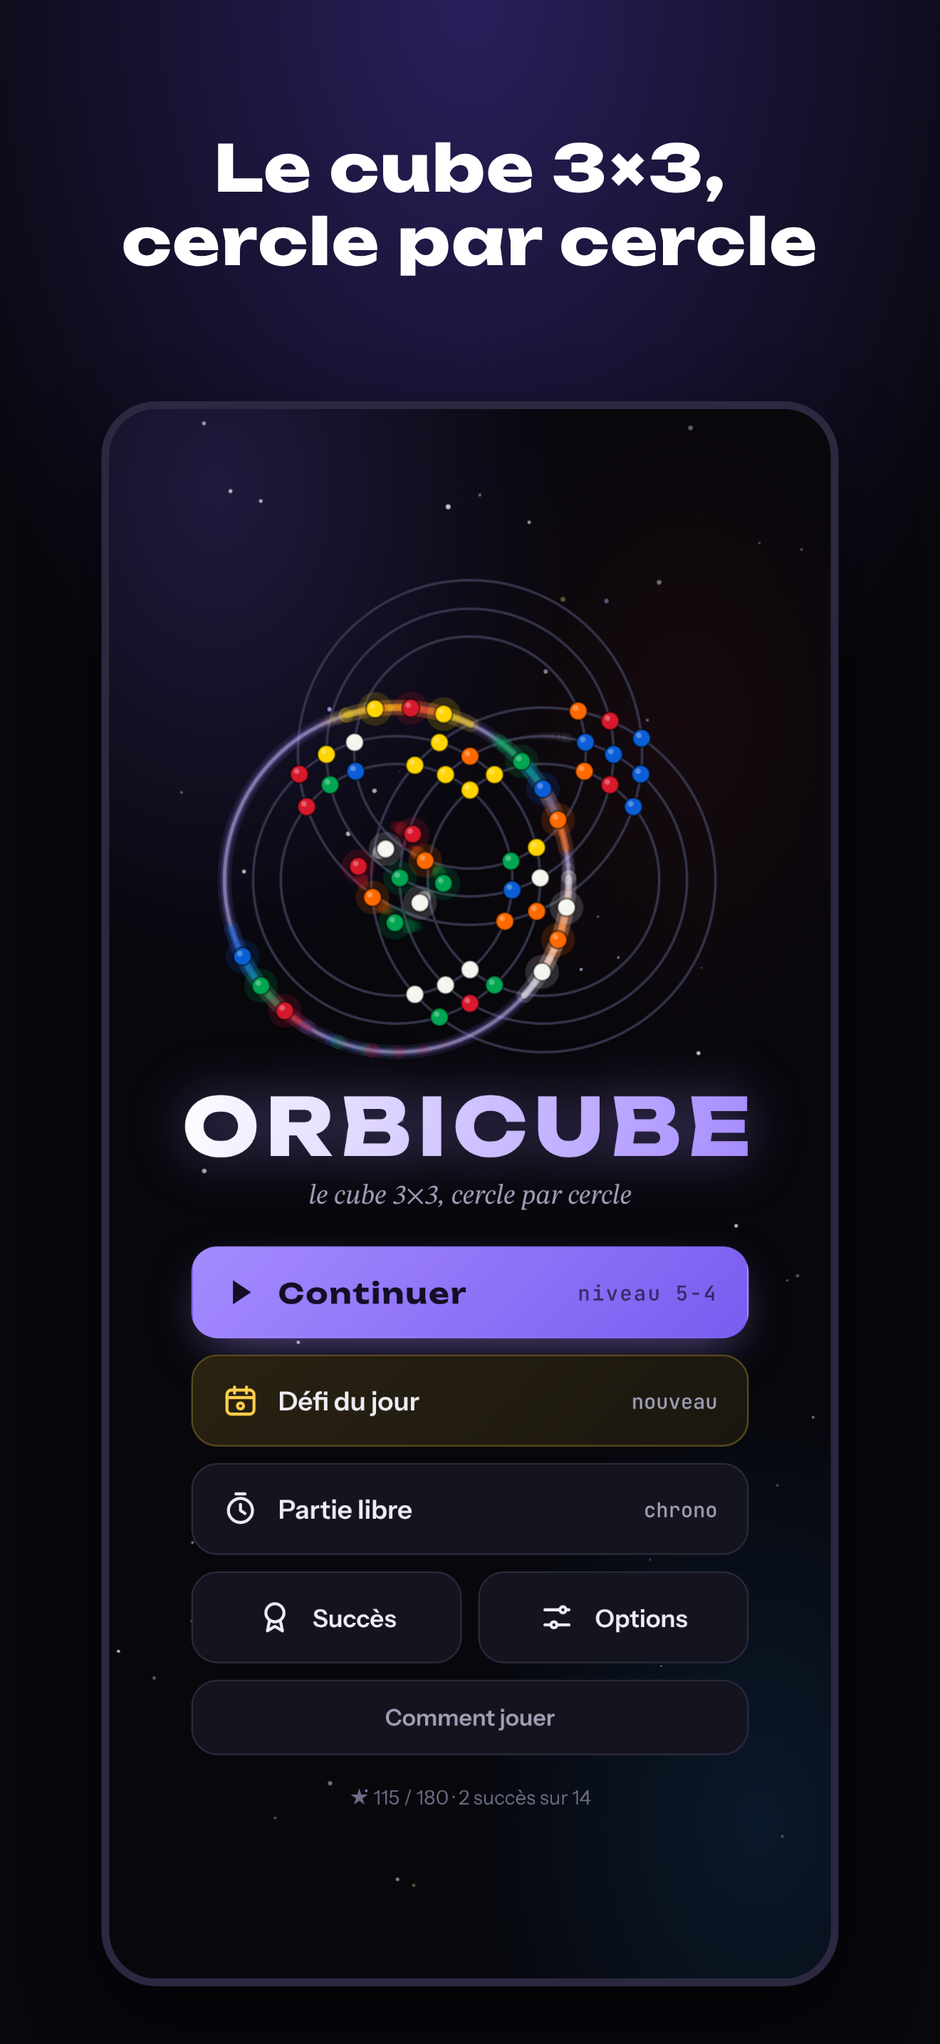
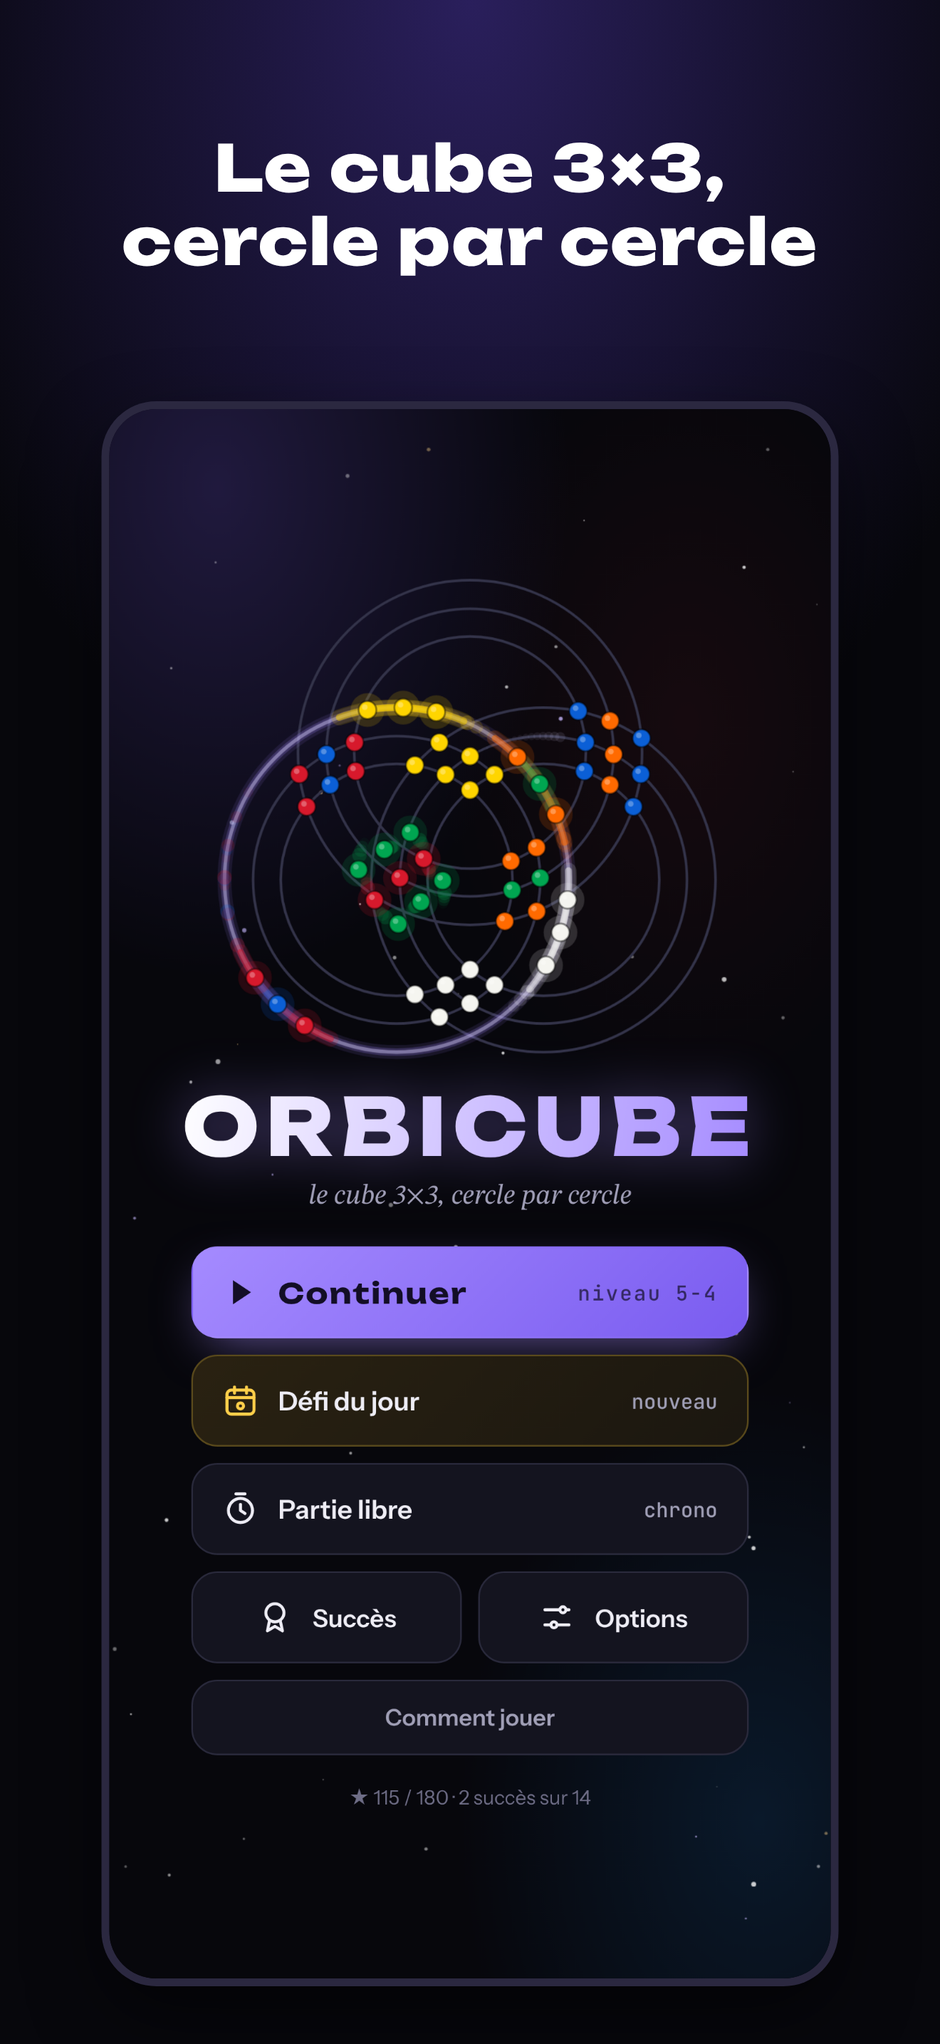
Cube en perspective : pivote au doigt (gauche/droite, haut/bas), plus de libellé U·F·R
Un appui faisait défiler trois vues, toujours dans le même sens. Le cube se fait maintenant
pivoter en le glissant : à gauche ou à droite autour de la verticale, vers le haut ou le bas
pour voir la face du dessous ; au lâcher, il se cale sur la vue la plus proche. Un simple appui
ne fait plus rien. Le libellé U·F·R disparaît, l'aide et le conseil du niveau 2-1 suivent dans
les cinq langues. Relu par la revue de code : bascule bloquée une fois retourné, sens inversé
pendant un glissé en diagonale, souris relâchée hors du cube, redessins groupés par image.

Claude-Session: https://claude.ai/code/session_0149xvqQAFsWoXJkF64USQEK

Changed region(s): [[0.3417, 0.3414, 0.6833, 0.4965], [0.2174, 0.4344, 0.3727, 0.5275]]

diff --git a/orbicube/www/index.html b/orbicube/www/index.html
@@ -162,8 +162,7 @@ a.bouton{text-decoration:none;color:inherit}
 /* le cube en perspective trône au centre, entre les coups et le temps, comme dans la visualisation de
    référence : sa taille (--cube) est la hauteur que le plateau laisse, calculée par redimJeu() */
 .jcube{display:grid;justify-items:center;gap:0;min-width:0;padding-top:14px}
-#mini{width:var(--cube,96px);height:var(--cube,96px);display:block;cursor:pointer;touch-action:manipulation}
-.miniv{font-size:10px;color:var(--sourd);text-align:center;font-family:var(--f-chiffre);pointer-events:none;letter-spacing:.1em}
+#mini{width:var(--cube,96px);height:var(--cube,96px);display:block;cursor:grab;touch-action:none}#mini:active{cursor:grabbing}
 .jinfo .stat{align-self:start;padding-top:6px}.jinfo .jetoiles{margin-top:8px}.jinfo .jetoiles svg{width:18px;height:18px}
 .coupgeant{position:absolute;right:14px;top:4px;font-family:var(--f-math);font-size:44px;color:var(--lilas);line-height:1;pointer-events:none;text-shadow:0 0 24px rgba(165,139,255,.5)}
 .fenetre{animation:pop .45s cubic-bezier(.3,1.4,.5,1)!important}
@@ -345,7 +344,7 @@ a.bouton{text-decoration:none;color:inherit}
     </div>
     <div class="jinfo">
       <div class="stat">Coups<b id="jCoups">0</b><div class="jetoiles" id="jEt" aria-label="Étoiles possibles"></div></div>
-      <div class="jcube"><canvas id="mini" aria-label="Cube en perspective, touchez pour changer de vue"></canvas><div class="miniv" id="miniv">U · F · R</div></div>
+      <div class="jcube"><canvas id="mini" aria-label="Cube en perspective, glissez pour le faire pivoter"></canvas></div>
       <div class="stat d">Temps<b id="jTemps">0:00</b></div>
     </div>
     <div class="plateau" id="zonePlateau">
@@ -386,7 +385,7 @@ a.bouton{text-decoration:none;color:inherit}
           <div class="segment" id="optVitesse"><button type="button" data-v="1.5">Lente</button><button type="button" data-v="1">Normale</button><button type="button" data-v="0.6">Rapide</button></div></div>
         <div class="ligne empile"><div class="lt"><b>Couleurs</b><span>« Contraste » suit une palette lisible par les daltoniens.</span></div>
           <div class="segment" id="optPalette"><button type="button" data-v="classique">Classique</button><button type="button" data-v="contraste">Contraste</button></div></div>
-        <div class="ligne"><div class="lt"><b>Cube en perspective</b><span>La vignette en haut à gauche du plateau.</span></div>
+        <div class="ligne"><div class="lt"><b>Cube en perspective</b><span>Au-dessus du plateau : glissez-le pour le faire pivoter.</span></div>
           <label class="interrupteur"><input type="checkbox" id="optCube" role="switch" aria-label="Cube en perspective"><i></i></label></div>
         <div class="ligne"><div class="lt"><b>Pavé de notation</b><span>Des boutons U, R′… sous le plateau.</span></div>
           <label class="interrupteur"><input type="checkbox" id="optPave" role="switch" aria-label="Pavé de notation"><i></i></label></div>
@@ -440,7 +439,7 @@ a.bouton{text-decoration:none;color:inherit}
         <h3>Les gestes</h3>
         <p data-html="aide-glisser"><b>Glisser</b> le long d’un cercle le tourne dans le sens du doigt. Lâchez tôt et il revient en place.</p>
         <p data-html="aide-toucher"><b>Toucher</b> un cercle le tourne d’un quart de tour, dans le sens horaire (réglable dans les options).</p>
-        <p data-html="aide-vue"><b>Toucher la vignette du cube</b> change la vue : U·F·R, U·B·L, D·F·L.</p>
+        <p data-html="aide-vue"><b>Glisser le cube</b> au-dessus du plateau le fait pivoter : à gauche ou à droite pour en faire le tour, vers le haut ou le bas pour voir la face du dessous.</p>
       </div>
       <div class="aide-carte">
         <h3>Gagner des étoiles</h3>
@@ -627,10 +626,14 @@ var Ticker={actifs:[],tourne:false,reveiller:function(){if(!Ticker.tourne){Ticke
 document.addEventListener("visibilitychange",function(){if(!document.hidden)Ticker.reveiller();});
 
 /* ========== 4. LE CUBE EN PERSPECTIVE ========== */
-var VUES=[{nom:"U · F · R",m:function(v){return v;}},{nom:"U · B · L",m:function(v){return[-v[0],v[1],-v[2]];}},{nom:"D · F · L",m:function(v){return[-v[0],-v[1],v[2]];}}];
 var C30=Math.cos(Math.PI/6);
-function dessinerCube(cc,w,col,anim,vue,pivot){cc.clearRect(0,0,w,w);var k=w/6.6,ox=w/2,oy=w/2,V=VUES[vue].m;
-  function rotV(v){var r=V(v);return pivot?rotAng(r,1,pivot):r;}
+function dessinerCube(cc,w,col,anim,pivot){cc.clearRect(0,0,w,w);var k=w/6.6,ox=w/2,oy=w/2;
+  // orientation libre : pivot.y fait tourner autour de la verticale, pivot.x bascule vers l'avant
+  // (autour de l'axe horizontal de l'écran, (1,0,−1)/√2), ce qui montre la face du dessous
+  var cy=pivot?Math.cos(pivot.y):1,sy=pivot?Math.sin(pivot.y):0,cx_=pivot?Math.cos(pivot.x):1,sx=pivot?Math.sin(pivot.x):0,h=Math.SQRT1_2;
+  function rotV(v){var r=v;if(!pivot)return r;r=[r[0]*cy+r[2]*sy,r[1],-r[0]*sy+r[2]*cy];
+    var d=h*(r[0]-r[2]),cr=[h*(-r[1]),h*(r[2]+r[0]),h*(-r[1])];
+    return[r[0]*cx_+cr[0]*sx+h*d*(1-cx_),r[1]*cx_+cr[1]*sx,r[2]*cx_+cr[2]*sx-h*d*(1-cx_)];}
   function proj(v){v=rotV(v);return[ox+(v[0]-v[2])*C30*k,oy+((v[0]+v[2])*.5-v[1])*k];}
   var mv=anim?anim.mv:null,th=anim?mv.q*anim.t*Math.PI/2:0,cubies=[];
   // Ordre de dessin (algorithme du peintre) : le cube est coupé en trois tranches le long de l'axe du tour.
@@ -786,9 +789,9 @@ function ouvrirMonde(w){var M=MONDES[w];document.getElementById("nivTitre").text
 /* ========== 11. LA PARTIE ========== */
 var JeuP=new Plateau(document.getElementById("plateau"),{eclats:true});Ticker.actifs.push(JeuP);
 JeuP.onFace=function(n){if(!J||!J.pret||J.fini)return;bip(1047,.28,"sine",.07);bip(1568,.32,"sine",.05,.07);vibrer(12);};
-var mini=document.getElementById("mini"),miniC=mini.getContext("2d"),VUE=0,PIVOT=0,J=null;
+var mini=document.getElementById("mini"),miniC=mini.getContext("2d"),PIVOT={y:0,x:0},J=null;
 function dessinerMini(){if(!PROG.options.cube)return;var w=mini.clientWidth||84,px=Math.round(w*DPR);if(mini.width!==px){mini.width=px;mini.height=px;miniC.setTransform(DPR,0,0,DPR,0,0);}
-  dessinerCube(miniC,w,JeuP.col,JeuP.anim,VUE,PIVOT);}
+  dessinerCube(miniC,w,JeuP.col,JeuP.anim,PIVOT);}
 JeuP.apres=function(){dessinerMini();if(J&&J.t0&&!J.fini&&!J.enPause)document.getElementById("jTemps").textContent=fmt(performance.now()-J.t0);};
 function fmt(ms){var s=Math.floor(ms/1000);return Math.floor(s/60)+":"+String(s%60).padStart(2,"0");}
 // Le plateau prend la largeur, moins une marge pour que les cercles ne frôlent pas les bords (le client, le 11/10/2026) ; le cube, au centre de la ligne des coups et du temps, prend la
@@ -881,9 +884,9 @@ var TUTOS={"1-1":["geste","Glissez le long du cercle qui brille, dans le sens de
   "1-2":["toucher","Touchez un cercle pour le tourner d’un quart de tour dans le sens horaire. Glisser permet de choisir le sens."],
   "1-3":["pastille","Chaque pastille est au croisement de deux cercles. Un tour déplace douze pastilles, et les neuf de la face pivotent sur place."],
   "1-5":["indice","Bloqué ? L’ampoule en haut à droite montre le tour suivant, mais limite le niveau à deux étoiles."],
-  "2-1":["vue","La vignette du cube en haut à gauche se touche : elle change de vue pour montrer les faces cachées."],
+  "2-1":["vue","Le cube au-dessus du plateau se fait pivoter au doigt : glissez-le pour voir les faces cachées."],
   "3-1":["tranche","Les cercles du milieu sont les tranches M, E et S. Ils n’ont pas de face à eux : seules douze pastilles bougent."]};
-function tutoriel(){if(!J||J.def.mode!=="campagne")return;var t=TUTOS[J.def.id];if(!t||PROG.tips[t[0]])return;
+function tutoriel(){if(!J||J.def.mode!=="campagne")return;var t=TUTOS[J.def.id];if(!t||PROG.tips[t[0]]||(t[0]==="vue"&&!PROG.options.cube))return;
   var b=document.getElementById("bulle");document.getElementById("bulleTxt").textContent=t[1];b.dataset.tip=t[0];b.hidden=false;if(t[0]==="geste")indice(true);}
 function cacherBulle(sansNoter){var b=document.getElementById("bulle");if(!b.hidden&&b.dataset.tip&&!sansNoter){PROG.tips[b.dataset.tip]=1;sauver();}b.hidden=true;}
 document.getElementById("bulleOk").addEventListener("click",function(){sonClic();cacherBulle();});
@@ -928,9 +931,24 @@ cvJ.addEventListener("pointerup",lacher);cvJ.addEventListener("pointercancel",la
 cvJ.addEventListener("pointerleave",function(){if(!G&&JeuP.survol){JeuP.survol=null;JeuP.dessiner();}});
 cvJ.addEventListener("contextmenu",function(e){e.preventDefault();if(!J||!J.pret)return;var p=pt(e),c=JeuP.anneauxSous(p[0],p[1]);
   if(c.length)jouerCoup({a:c[0].a,L:c[0].L,q:qPourSens(c[0].a,PROG.options.horaire?1:-1)});});
-mini.addEventListener("click",function(){VUE=(VUE+1)%3;document.getElementById("miniv").textContent=VUES[VUE].nom;sonClic();
-  var t0=performance.now();(function tour(now){var k=Math.min(1,(now-t0)/320);PIVOT=(1-ease(k))*Math.PI*.5;dessinerMini();if(k<1)requestAnimationFrame(tour);else{PIVOT=0;dessinerMini();}})(t0);
-  if(!PROG.tips.vue){PROG.tips.vue=1;sauver();}var b=document.getElementById("bulle");if(!b.hidden&&b.dataset.tip==="vue")cacherBulle();});
+// Le cube pivote au doigt : glisser à gauche ou à droite le fait tourner autour de la verticale, vers le
+// haut ou le bas le bascule pour montrer la face du dessous. Au lâcher, il se cale sur la vue la plus
+// proche (un quart de tour, ou retourné). Un simple appui ne fait rien : il ne tournait que dans un sens.
+(function(){var g=null,anim=0,attente=false;
+  function redessiner(){if(attente)return;attente=true;requestAnimationFrame(function(){attente=false;dessinerMini();});}
+  function norm(a){a%=2*Math.PI;return a<0?a+2*Math.PI:a;}
+  function caler(){var y0=PIVOT.y,x0=PIVOT.x,y1=Math.round(y0/(Math.PI/2))*Math.PI/2,x1=Math.round(x0/Math.PI)*Math.PI,t0=performance.now(),n=++anim;
+    (function pas(now){if(n!==anim)return;var k=Math.min(1,(now-t0)/260),e=ease(k);PIVOT={y:y0+(y1-y0)*e,x:x0+(x1-x0)*e};dessinerMini();
+      if(k<1)requestAnimationFrame(pas);else PIVOT={y:norm(y1),x:norm(x1)};})(t0);}
+  mini.addEventListener("pointerdown",function(e){if(e.button)return;anim++;g={x:e.clientX,y:e.clientY,bouge:false};try{mini.setPointerCapture(e.pointerId);}catch(_){}});
+  mini.addEventListener("pointermove",function(e){if(!g)return;if(e.pointerType==="mouse"&&!e.buttons){lacher();return;}
+    var dx=e.clientX-g.x,dy=e.clientY-g.y;if(!g.bouge){if(Math.hypot(dx,dy)<4)return;g.bouge=true;vibrer(6);}
+    // pas à pas : le sens horizontal suit la bascule du moment (retourné, la droite devient la gauche)
+    var k=(Math.PI/2)/(0.9*Math.max(60,mini.clientWidth)),sens=Math.cos(PIVOT.x)<0?-1:1;
+    PIVOT={y:PIVOT.y+sens*dx*k,x:PIVOT.x-dy*k};g.x=e.clientX;g.y=e.clientY;redessiner();});
+  function lacher(){if(!g)return;var b=g.bouge;g=null;if(!b)return;caler();
+    if(!PROG.tips.vue){PROG.tips.vue=1;sauver();}var bu=document.getElementById("bulle");if(!bu.hidden&&bu.dataset.tip==="vue")cacherBulle();}
+  mini.addEventListener("pointerup",lacher);mini.addEventListener("pointercancel",lacher);})();
 
 document.getElementById("btnPause").addEventListener("click",function(){sonClic();pause();});
 document.getElementById("btnIndice").addEventListener("click",function(){sonClic();if(!J||!J.pret||J.fini)return;
@@ -1010,7 +1028,7 @@ function appliquerOptions(){var o=PROG.options;COUL=PALETTES[o.palette]||PALETTE
   document.getElementById("optPave").checked=o.pave;document.getElementById("optSens").checked=o.horaire;
   document.querySelectorAll("#optVitesse button").forEach(function(b){b.classList.toggle("on",+b.dataset.v===o.vitesse);});
   document.querySelectorAll("#optPalette button").forEach(function(b){b.classList.toggle("on",b.dataset.v===o.palette);});
-  mini.hidden=!o.cube;document.getElementById("miniv").hidden=!o.cube;document.getElementById("pave").hidden=!o.pave;
+  mini.hidden=!o.cube;document.getElementById("pave").hidden=!o.pave;
   document.getElementById("btnPaveT").classList.toggle("on",o.pave);
   if(ECRAN==="jeu")requestAnimationFrame(redimJeu);Logo.dessiner();JeuP.dessiner();dessinerMini();}
 function opt(k,v){PROG.options[k]=v;PROG.options.maj=Date.now();sauver();appliquerOptions();}

diff --git a/orbicube/www/langues.js b/orbicube/www/langues.js
@@ -62,7 +62,7 @@
     ["Par", "Par", "Par", "Par", "Par"],
     ["Étoiles possibles", "Stars still possible", "Nog mogelijke sterren", "Noch mögliche Sterne", "Estrellas posibles"],
     ["Plateau de cercles", "Board of circles", "Bord met cirkels", "Kreisbrett", "Tablero de círculos"],
-    ["Cube en perspective, touchez pour changer de vue", "3D cube, tap to change the view", "3D-kubus, tik om het zicht te wisselen", "3D-Würfel, tippen für eine andere Ansicht", "Cubo en 3D, toca para cambiar la vista"],
+    ["Cube en perspective, glissez pour le faire pivoter", "3D cube, swipe to turn it around", "3D-kubus, veeg om hem te draaien", "3D-Würfel, wischen zum Drehen", "Cubo en 3D, desliza para girarlo"],
     ["MÉLANGE…", "SCRAMBLING…", "HUSSELEN…", "MISCHEN…", "MEZCLANDO…"],
     ["Glissez le long d’un cercle", "Slide along a circle", "Veeg langs een cirkel", "Wische an einem Kreis entlang", "Desliza por un círculo"],
     ["Compris", "Got it", "Begrepen", "Verstanden", "Entendido"],
@@ -75,7 +75,7 @@
     ["Touchez un cercle pour le tourner d’un quart de tour dans le sens horaire. Glisser permet de choisir le sens.", "Tap a circle to turn it a quarter turn clockwise. Sliding lets you choose the direction.", "Tik op een cirkel om hem een kwartslag met de klok mee te draaien. Door te vegen kies je de richting.", "Tippe auf einen Kreis, um ihn eine Vierteldrehung im Uhrzeigersinn zu drehen. Durch Wischen wählst du die Richtung.", "Toca un círculo para girarlo un cuarto de vuelta en sentido horario. Deslizando eliges el sentido."],
     ["Chaque pastille est au croisement de deux cercles. Un tour déplace douze pastilles, et les neuf de la face pivotent sur place.", "Each dot sits where two circles cross. A turn moves twelve dots, and the nine on the face spin in place.", "Elk bolletje ligt op het kruispunt van twee cirkels. Een draai verplaatst twaalf bolletjes, en de negen van het vlak draaien ter plekke.", "Jeder Punkt liegt dort, wo sich zwei Kreise kreuzen. Eine Drehung bewegt zwölf Punkte, und die neun der Seite drehen sich an Ort und Stelle.", "Cada bolita está en el cruce de dos círculos. Un giro mueve doce bolitas, y las nueve de la cara giran en su sitio."],
     ["Bloqué ? L’ampoule en haut à droite montre le tour suivant, mais limite le niveau à deux étoiles.", "Stuck? The bulb at the top right shows the next turn, but limits the level to two stars.", "Vast? Het lampje rechtsboven toont de volgende draai, maar beperkt het level tot twee sterren.", "Festgefahren? Die Glühbirne oben rechts zeigt die nächste Drehung, begrenzt das Level aber auf zwei Sterne.", "¿Atascado? La bombilla de arriba a la derecha muestra el siguiente giro, pero limita el nivel a dos estrellas."],
-    ["La vignette du cube en haut à gauche se touche : elle change de vue pour montrer les faces cachées.", "Tap the cube at the top left: it changes the view to show the hidden faces.", "Tik op de kubus linksboven: het zicht wisselt en toont de verborgen vlakken.", "Tippe auf den Würfel oben links: Die Ansicht wechselt und zeigt die verdeckten Seiten.", "Toca el cubo de arriba a la izquierda: cambia la vista para mostrar las caras ocultas."],
+    ["Le cube au-dessus du plateau se fait pivoter au doigt : glissez-le pour voir les faces cachées.", "The cube above the board turns under your finger: swipe it to see the hidden faces.", "De kubus boven het bord draai je met je vinger: veeg om de verborgen kanten te zien.", "Den Würfel über dem Brett drehst du mit dem Finger: wische, um die verdeckten Seiten zu sehen.", "El cubo sobre el tablero gira con el dedo: deslízalo para ver las caras ocultas."],
     ["Les cercles du milieu sont les tranches M, E et S. Ils n’ont pas de face à eux : seules douze pastilles bougent.", "The middle circles are the M, E and S slices. They have no face of their own: only twelve dots move.", "De middelste cirkels zijn de plakken M, E en S. Ze hebben geen eigen vlak: alleen twaalf bolletjes bewegen.", "Die mittleren Kreise sind die Scheiben M, E und S. Sie haben keine eigene Seite: Nur zwölf Punkte bewegen sich.", "Los círculos centrales son las capas M, E y S. No tienen cara propia: solo se mueven doce bolitas."],
     ["Un indice ?", "Need a hint?", "Een hint?", "Ein Tipp?", "¿Una pista?"],
     ["Le tour suivant s’affichera sur le plateau, mais ce niveau ne pourra plus donner que deux étoiles.", "The next turn will be shown on the board, but this level can then give two stars at most.", "De volgende draai verschijnt op het bord, maar dit level levert dan nog maximaal twee sterren op.", "Die nächste Drehung wird auf dem Brett gezeigt, aber dieses Level bringt dann höchstens zwei Sterne.", "El siguiente giro aparecerá en el tablero, pero este nivel solo podrá dar dos estrellas."],
@@ -149,7 +149,7 @@
     ["Classique", "Classic", "Klassiek", "Klassisch", "Clásica"],
     ["Contraste", "Contrast", "Contrast", "Kontrast", "Contraste"],
     ["Cube en perspective", "3D cube", "3D-kubus", "3D-Würfel", "Cubo en 3D"],
-    ["La vignette en haut à gauche du plateau.", "The thumbnail at the top left of the board.", "Het miniatuur linksboven op het bord.", "Das Vorschaubild oben links auf dem Brett.", "La miniatura arriba a la izquierda del tablero."],
+    ["Au-dessus du plateau : glissez-le pour le faire pivoter.", "Above the board: swipe it to turn it around.", "Boven het bord: veeg om hem te draaien.", "Über dem Brett: wischen, um ihn zu drehen.", "Encima del tablero: deslízalo para girarlo."],
     ["Pavé de notation", "Notation keypad", "Notatieknoppen", "Notationstasten", "Teclado de notación"],
     ["Des boutons U, R′… sous le plateau.", "U, R′… buttons under the board.", "Knoppen U, R′… onder het bord.", "Tasten U, R′… unter dem Brett.", "Botones U, R′… bajo el tablero."],
     ["Toucher : sens horaire", "Tap: clockwise", "Tikken: met de klok mee", "Tippen: im Uhrzeigersinn", "Tocar: sentido horario"],
@@ -238,10 +238,10 @@
       '<b>Tippe</b> auf einen Kreis, um ihn eine Vierteldrehung im Uhrzeigersinn zu drehen (in den Einstellungen änderbar).',
       '<b>Toca</b> un círculo para girarlo un cuarto de vuelta en sentido horario (se puede cambiar en los ajustes).'],
     "aide-vue": [
-      '<b>Tap the cube thumbnail</b> to change the view: U·F·R, U·B·L, D·F·L.',
-      '<b>Tik op het kubusje</b> om het zicht te wisselen: U·F·R, U·B·L, D·F·L.',
-      '<b>Tippe auf das Würfelbild</b>, um die Ansicht zu wechseln: U·F·R, U·B·L, D·F·L.',
-      '<b>Toca la miniatura del cubo</b> para cambiar la vista: U·F·R, U·B·L, D·F·L.'],
+      '<b>Swipe the cube</b> above the board to turn it: left or right to go around it, up or down to see the bottom face.',
+      '<b>Veeg over de kubus</b> boven het bord om hem te draaien: links of rechts om eromheen te kijken, omhoog of omlaag voor de onderkant.',
+      '<b>Wische über den Würfel</b> über dem Brett, um ihn zu drehen: nach links oder rechts rundherum, nach oben oder unten für die Unterseite.',
+      '<b>Desliza el cubo</b> sobre el tablero para girarlo: a izquierda o derecha para rodearlo, arriba o abajo para ver la cara inferior.'],
     "aide-etoiles": [
       'A level is solved when every group of nine dots is a single colour. <b>Three stars</b> for no more moves than the scramble (the “par”), <b>two</b> up to twice that, <b>one</b> beyond. The bulb shows the next turn, but limits the level to two stars.',
       'Een level is opgelost als elke groep van negen bolletjes één kleur heeft. <b>Drie sterren</b> met niet meer zetten dan de husseling (de „par”), <b>twee</b> tot het dubbele, <b>één</b> daarboven. Het lampje toont de volgende draai, maar beperkt het level tot twee sterren.',

diff --git a/orbicube/www/sw.js b/orbicube/www/sw.js
@@ -1,6 +1,6 @@
 // Version web (PWA) : tout le jeu est mis en cache pour se jouer hors ligne.
 // Incrémenter V à chaque publication, sinon les joueurs gardent l'ancienne version.
-var V = "orbicube-v13";
+var V = "orbicube-v15";
 var FICHIERS = ["./", "index.html", "config.js", "natif.js", "langues.js", "manifest.webmanifest", "confidentialite.html",
   "icones/favicon.png", "icones/apple-touch-icon.png", "icones/icon-192.png", "icones/icon-512.png", "icones/icon-maskable-512.png",
   "polices/polices.css", "polices/Unbounded-normal-700.woff2", "polices/Unbounded-normal-800.woff2",

diff --git a/CLAUDE.md b/CLAUDE.md
@@ -56,6 +56,9 @@ contresens). Un contrôle neuf s'éprouve de la même façon avant d'être cru.
   « l'endroit optimal ») : le plateau prend d'abord la largeur moins 14 px de chaque côté, et `redimJeu()` donne au cube la
   hauteur qui reste (`--cube`, de 64 à 150 px). Pas en filigrane : des couleurs derrière les pastilles
   se confondraient avec elles.
+- **Le cube pivote au doigt, jamais au simple appui** (le client, le 11/10/2026 : l'appui ne tournait
+  que dans un sens) : glisser à gauche/droite le fait tourner autour de la verticale, vers le haut/bas
+  le bascule (face du dessous) ; au lâcher il se cale au quart de tour près (`PIVOT`, `caler()`).
 - Les niveaux de campagne sont tirés d'une graine fixe (`orbicube-<monde>-<niveau>`) : changer
   `genererMelange()` change tous les niveaux des joueurs. Ne le faire qu'avec une nouvelle graine.
 - La progression est dans `localStorage` (clé `orbicube-v1`) et, sur téléphone, dans
